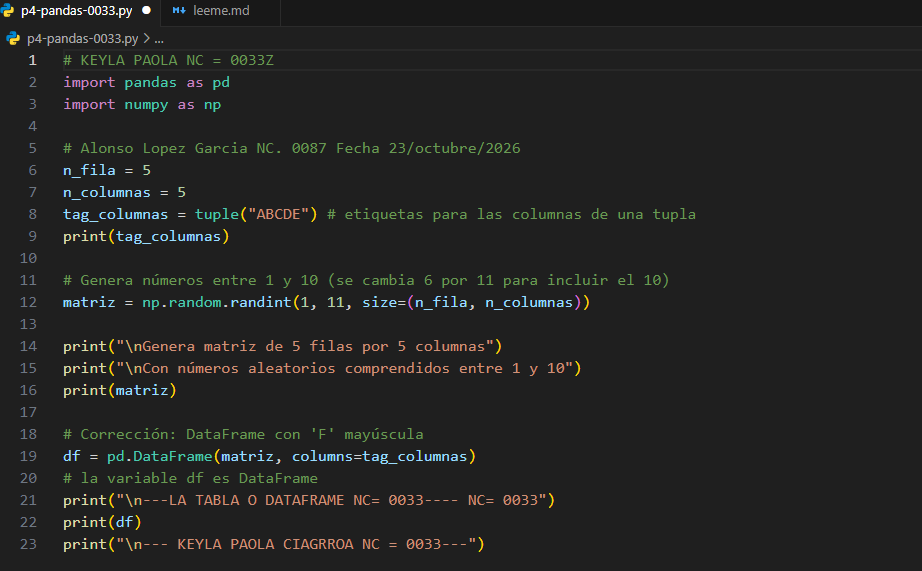
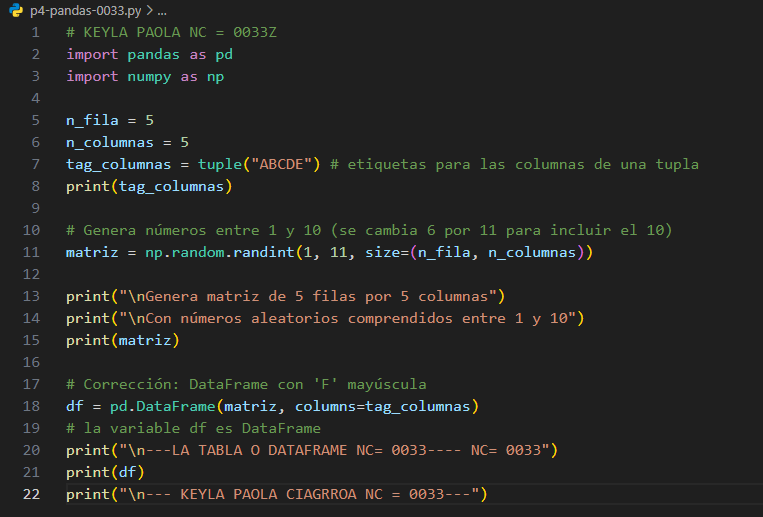
Add files via upload

diff --git a/p4-pandas-0033.py b/p4-pandas-0033.py
@@ -2,7 +2,6 @@
 import pandas as pd
 import numpy as np
 
-# Alonso Lopez Garcia NC. 0087 Fecha 23/octubre/2026
 n_fila = 5
 n_columnas = 5
 tag_columnas = tuple("ABCDE") # etiquetas para las columnas de una tupla

diff --git a/leeme.md b/leeme.md
@@ -4,7 +4,7 @@
 ![alt text](image-2.png)
 
 ## El codigo 
-![alt text](image-1.png)
+![alt text](image-3.png)
 
 ## El resultado
 ![alt text](image.png)
